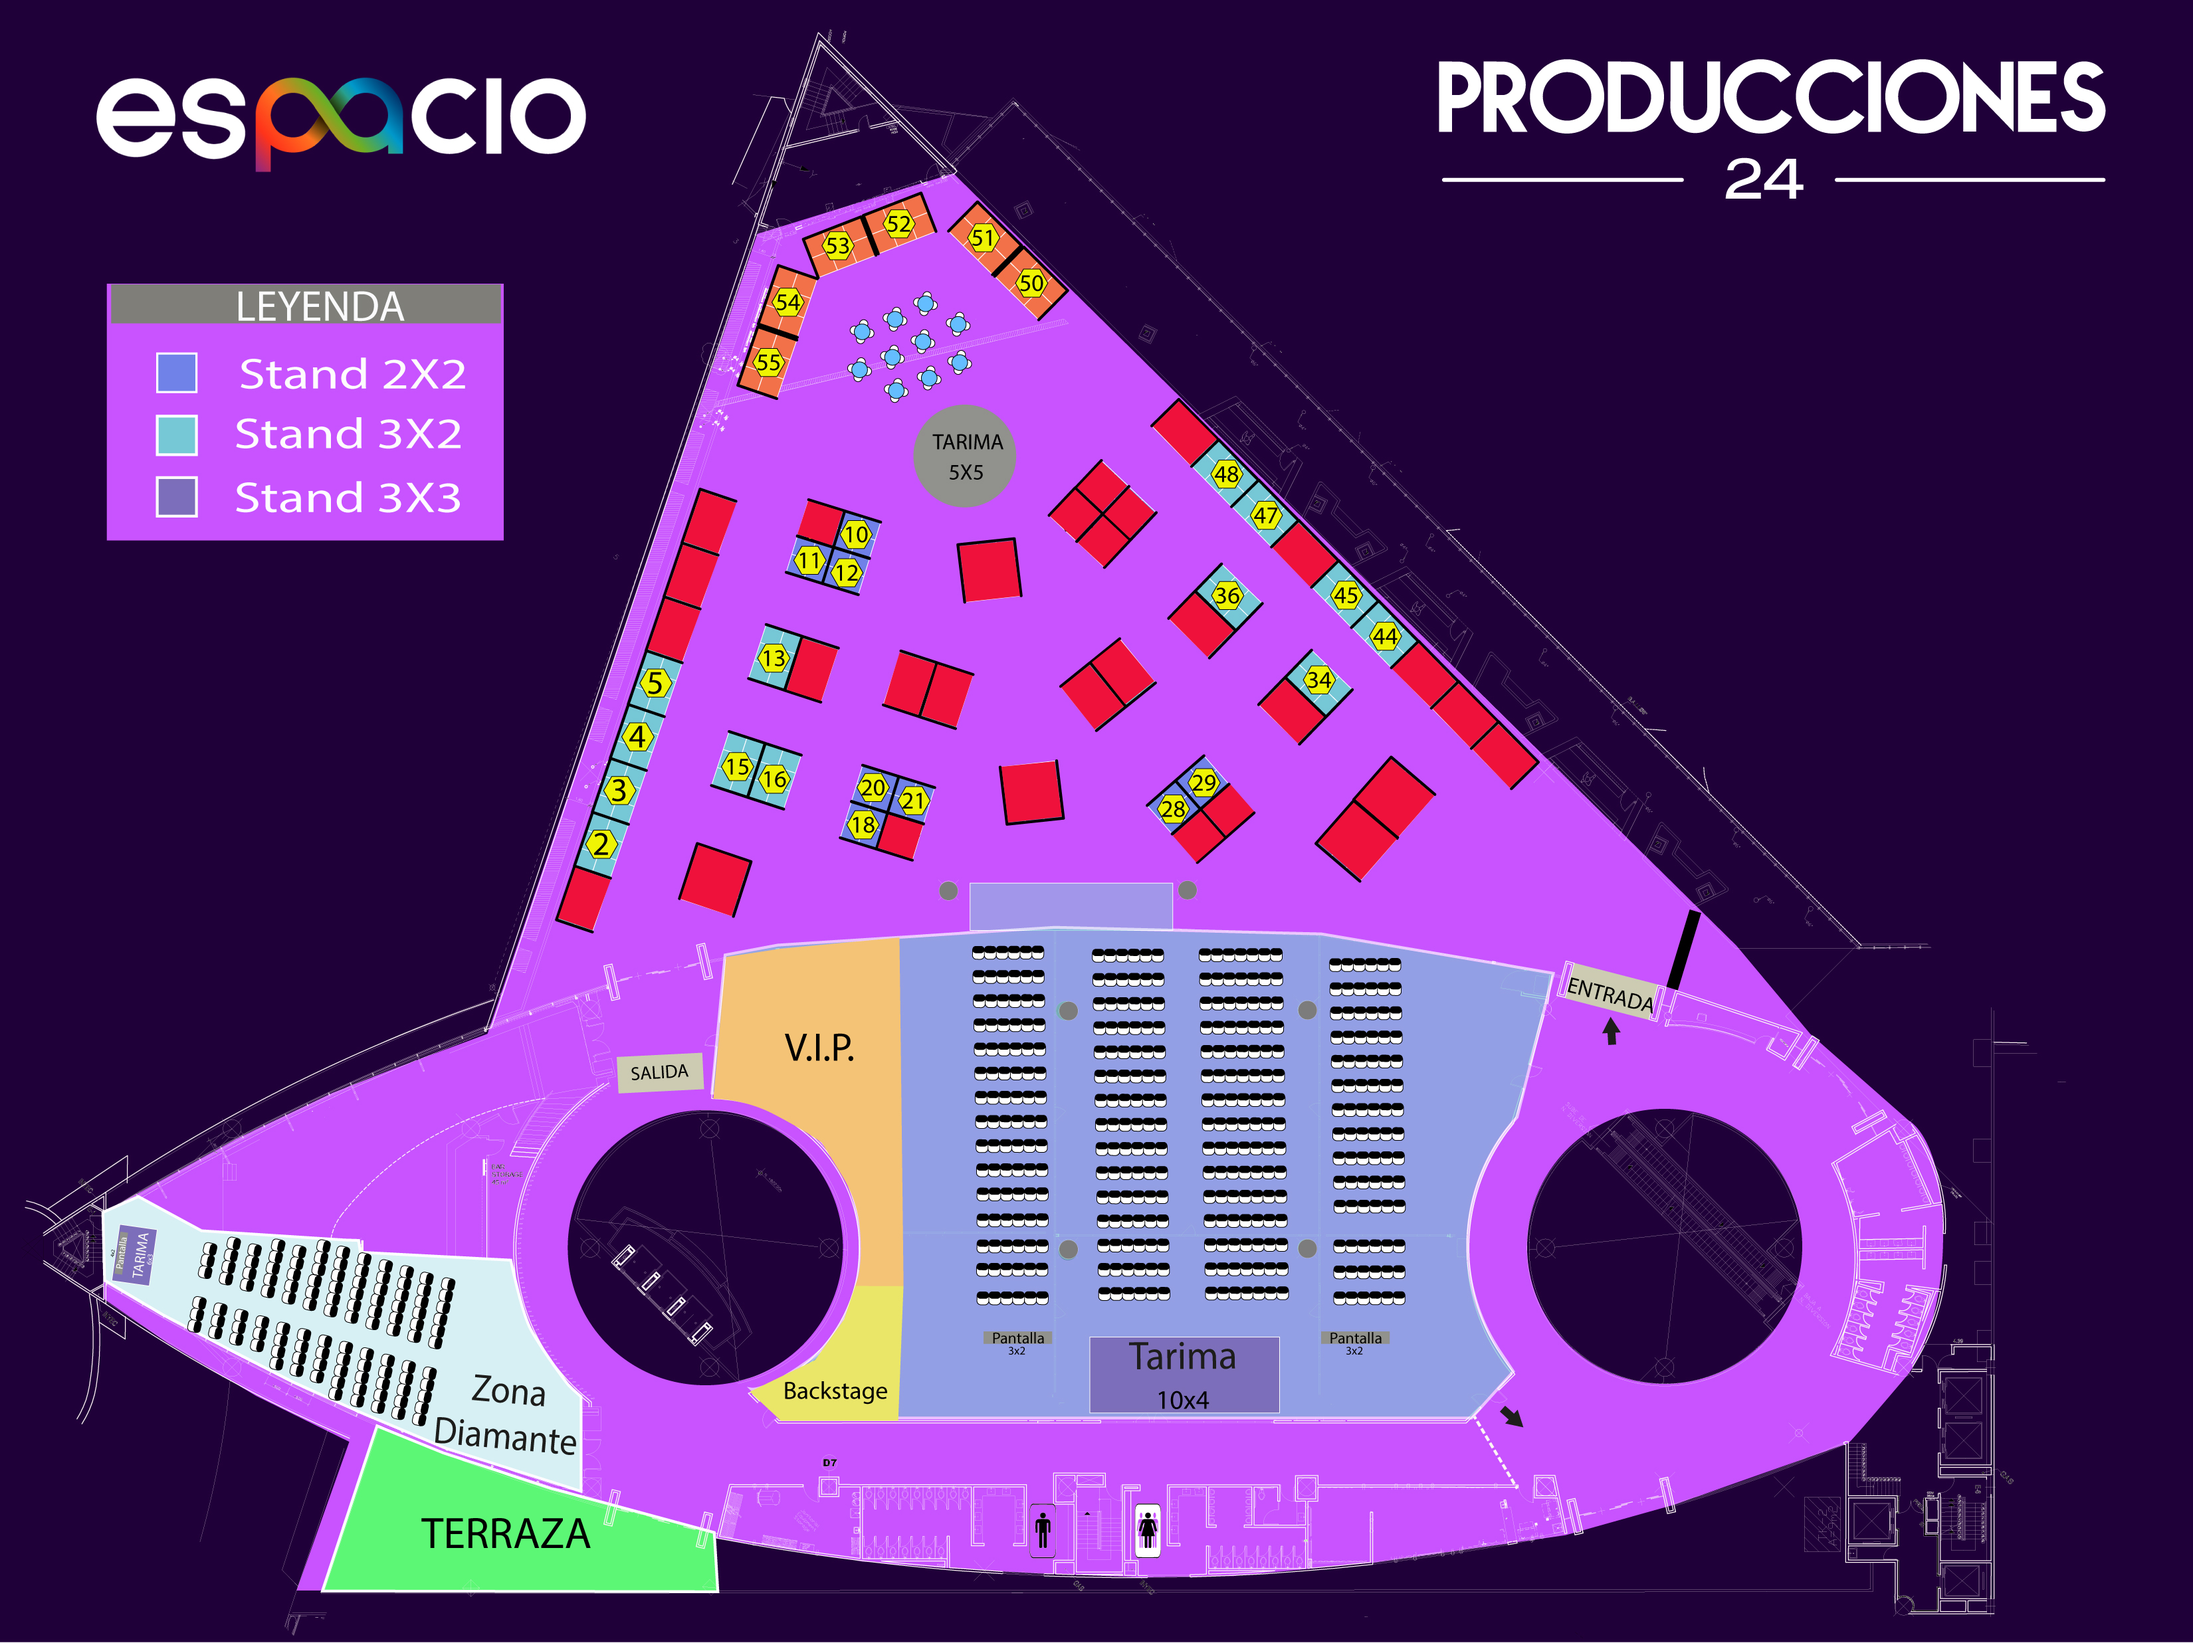
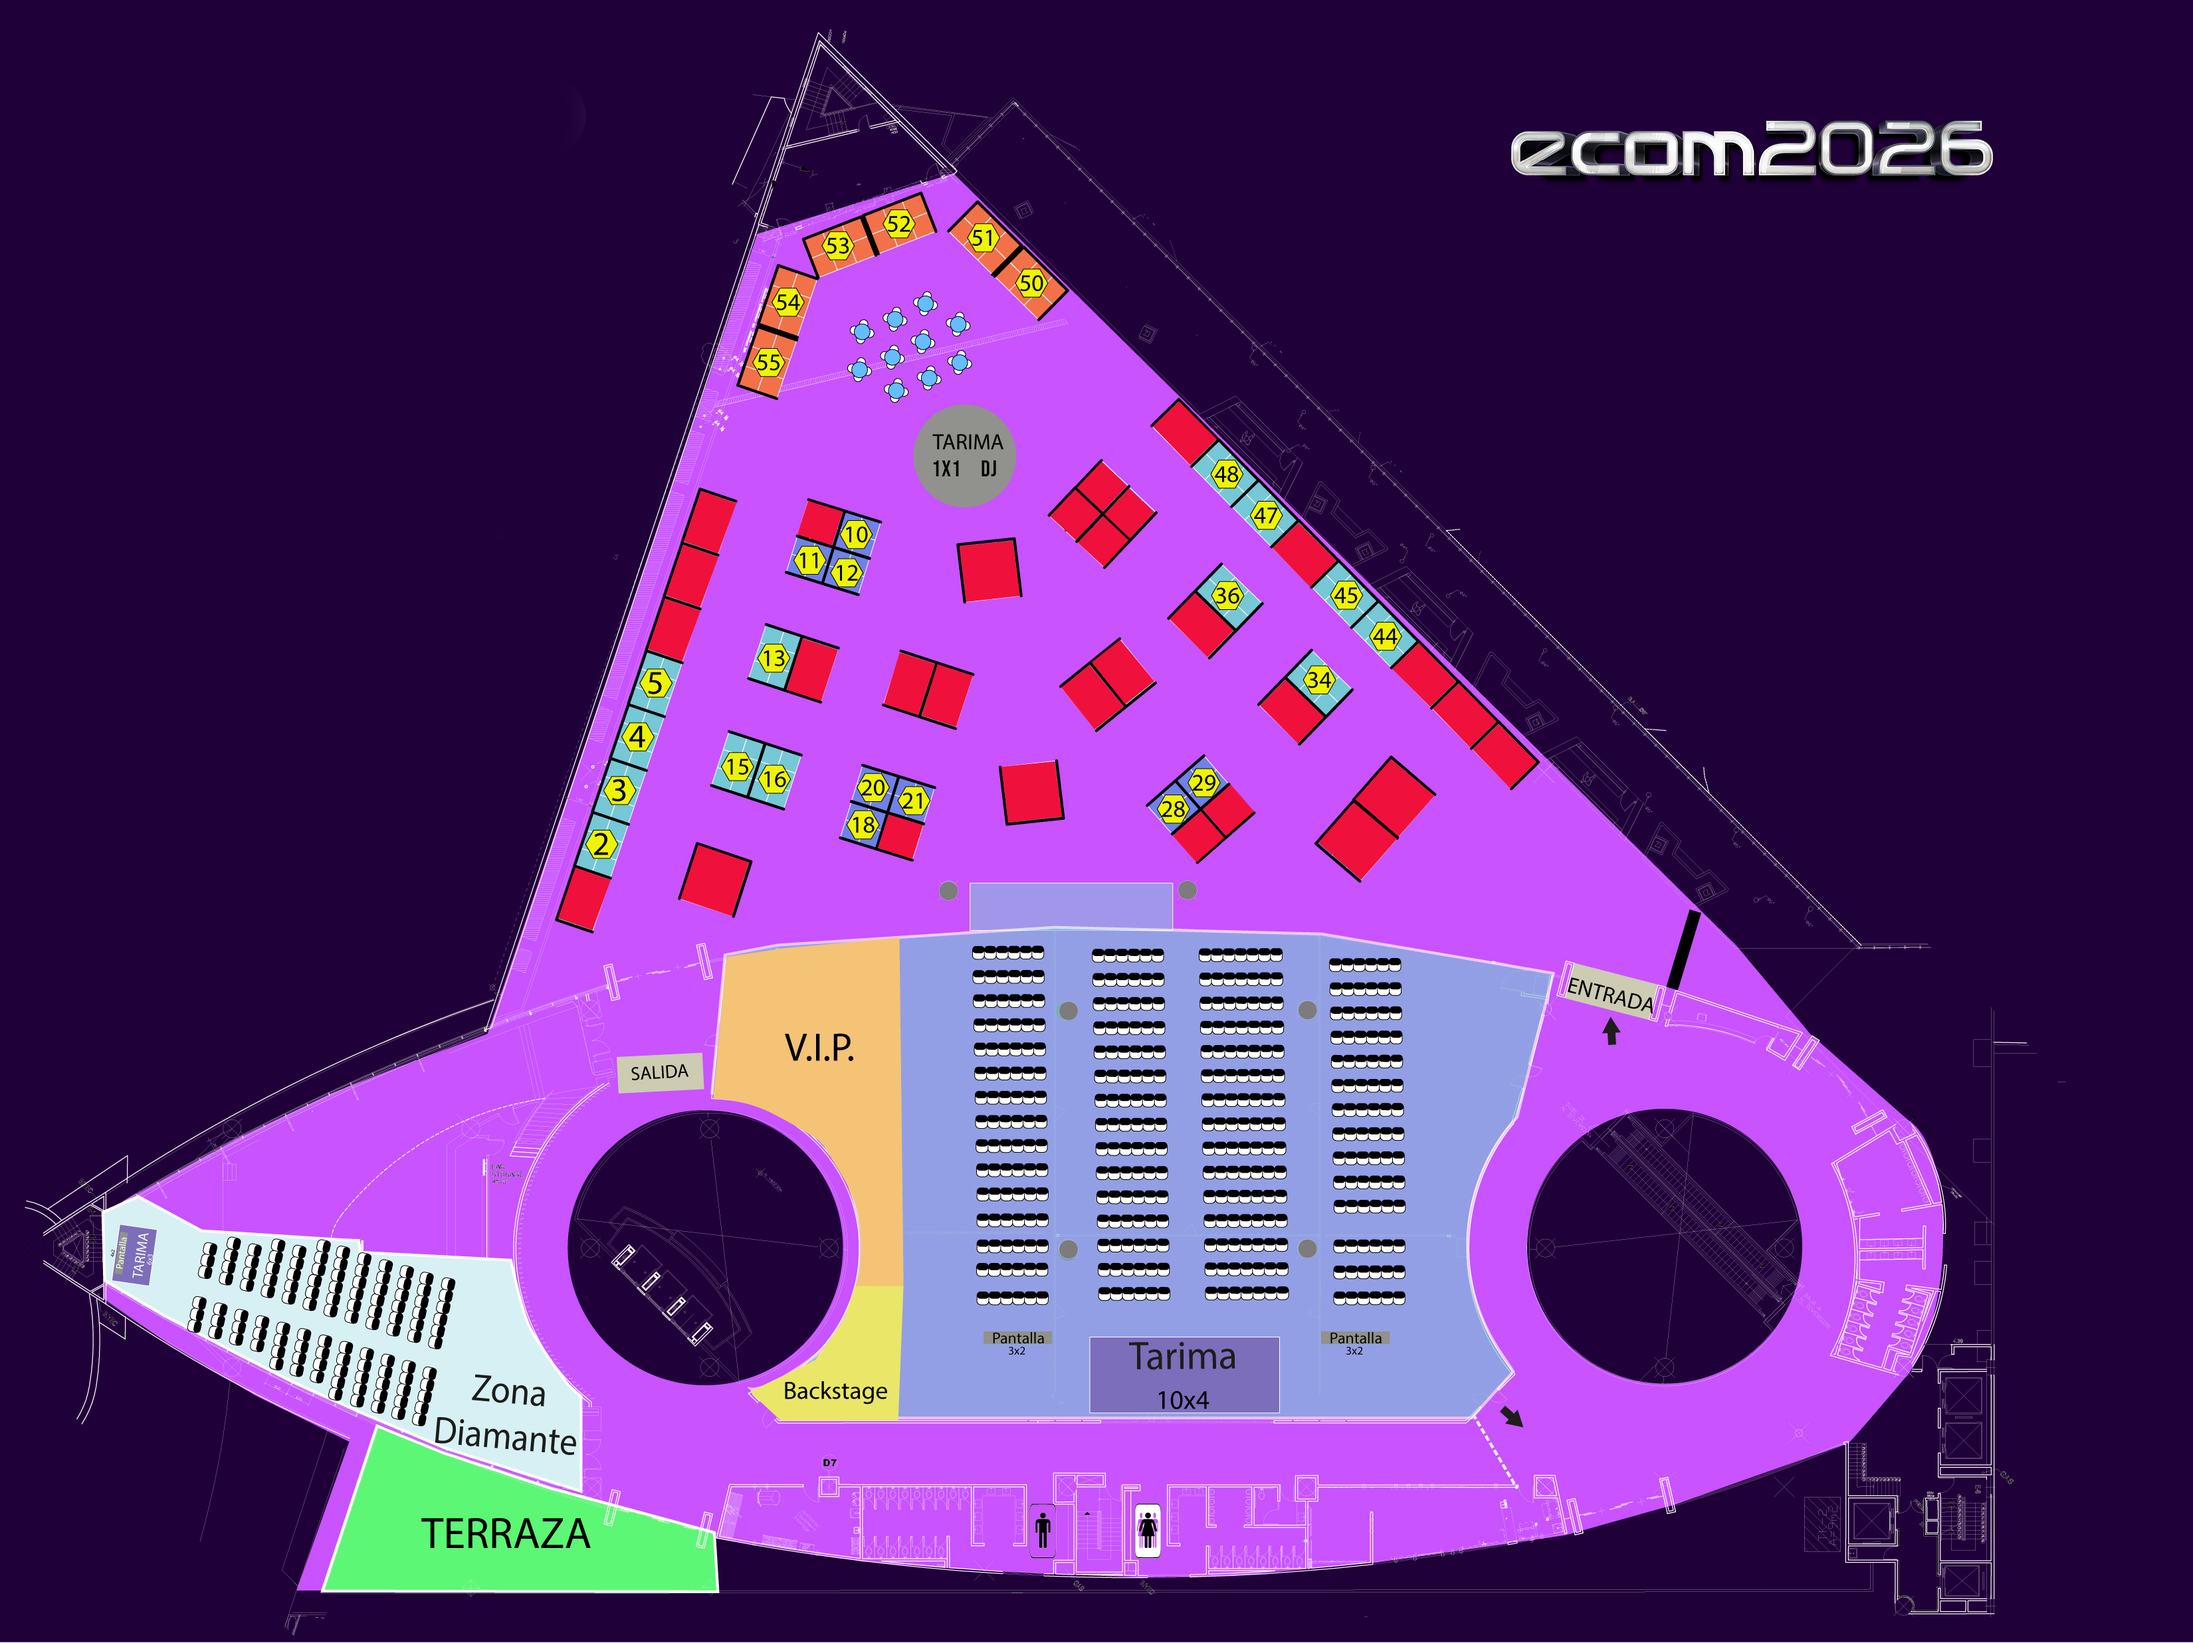
eliminar popup

Changed region(s): [[0.0312, 0.1557, 0.2497, 0.3425], [0.6555, 0.0311, 0.9676, 0.1245], [0.0312, 0.0311, 0.2809, 0.1245]]

diff --git a/src/main.jsx b/src/main.jsx
@@ -47,7 +47,7 @@ createRoot(document.getElementById('root')).render(
   <StrictMode>
     <BrowserRouter>
       <PixelPageView />
-      <GlobalModalManager />
+      {/* <GlobalModalManager /> */}
       <Routes>
         <Route path="/" element={<Links />} />
         <Route path="/stands" element={<App />} />
